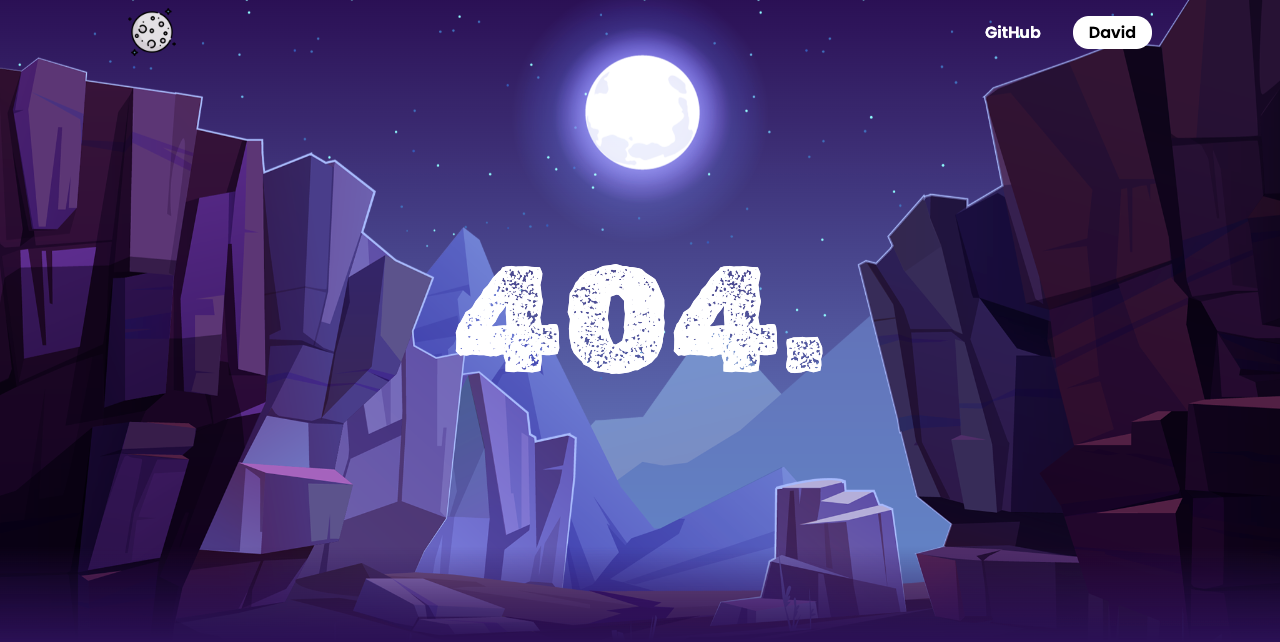
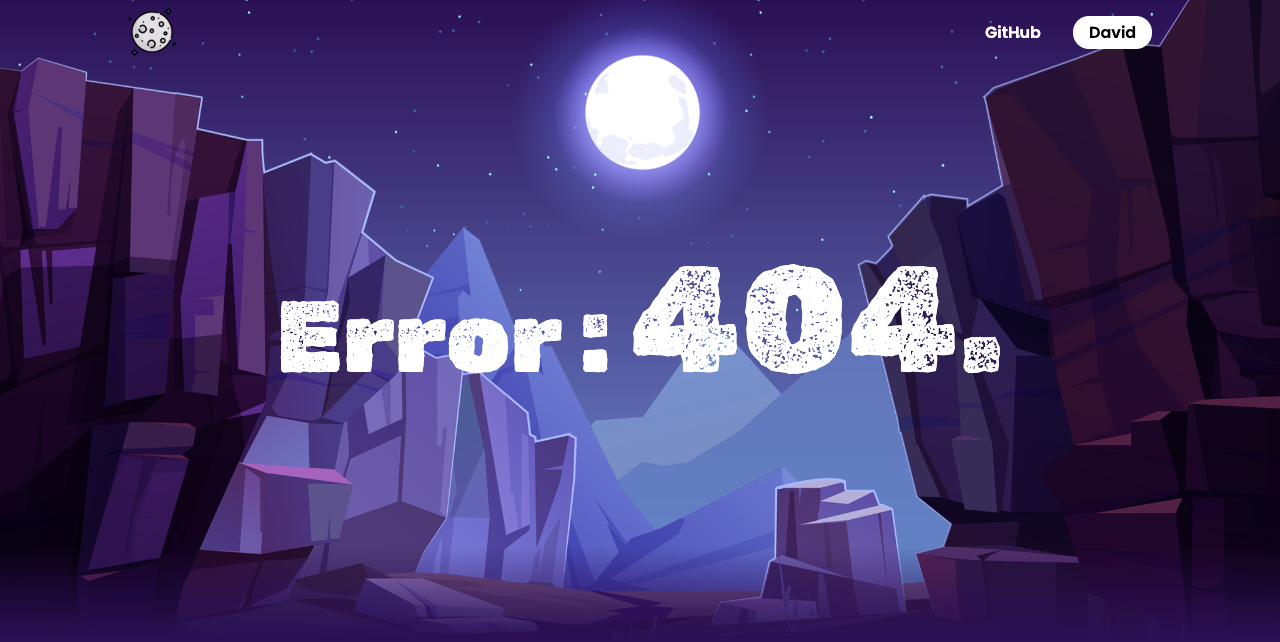
feat: text glitch

Changed region(s): [[0.2188, 0.405, 0.7812, 0.5919], [0.8438, 0.0312, 0.875, 0.0623]]

diff --git a/src/css/glitch404.css b/src/css/glitch404.css
@@ -9,6 +9,19 @@
     z-index: 10;
 }
 
+.error {
+    font-family: 'Rubik Dirt', cursive;
+    font-size: 100px;
+}
+
+.error:hover {
+    font-family: 'Rubik Glitch', cursive;
+}
+
+.page {
+    font-size: 60px;
+}
+
 .e404 {
     font-size: 150px;
 }
@@ -20,7 +33,7 @@
 .e404:hover:before,
 .e404:hover:after {
     position: absolute;
-    content: '404.';
+    content: 'Error404.';
     transform: translate(-50%, -50%);
     z-index: -1;
 }

diff --git a/index.html b/index.html
@@ -78,7 +78,7 @@
 
       </div>
       <div class="container404 animate__animated animate__fadeInDown animate__delay-2s">
-        <p class="two e404 font404 animate__animated animate__wobble animate__delay-2s">404.</p>
+        <p class="animate__animated animate__wobble animate__delay-2s error">Error : <span class="e404 font404">404.</span> </p>
 
       </div>
     </section>
